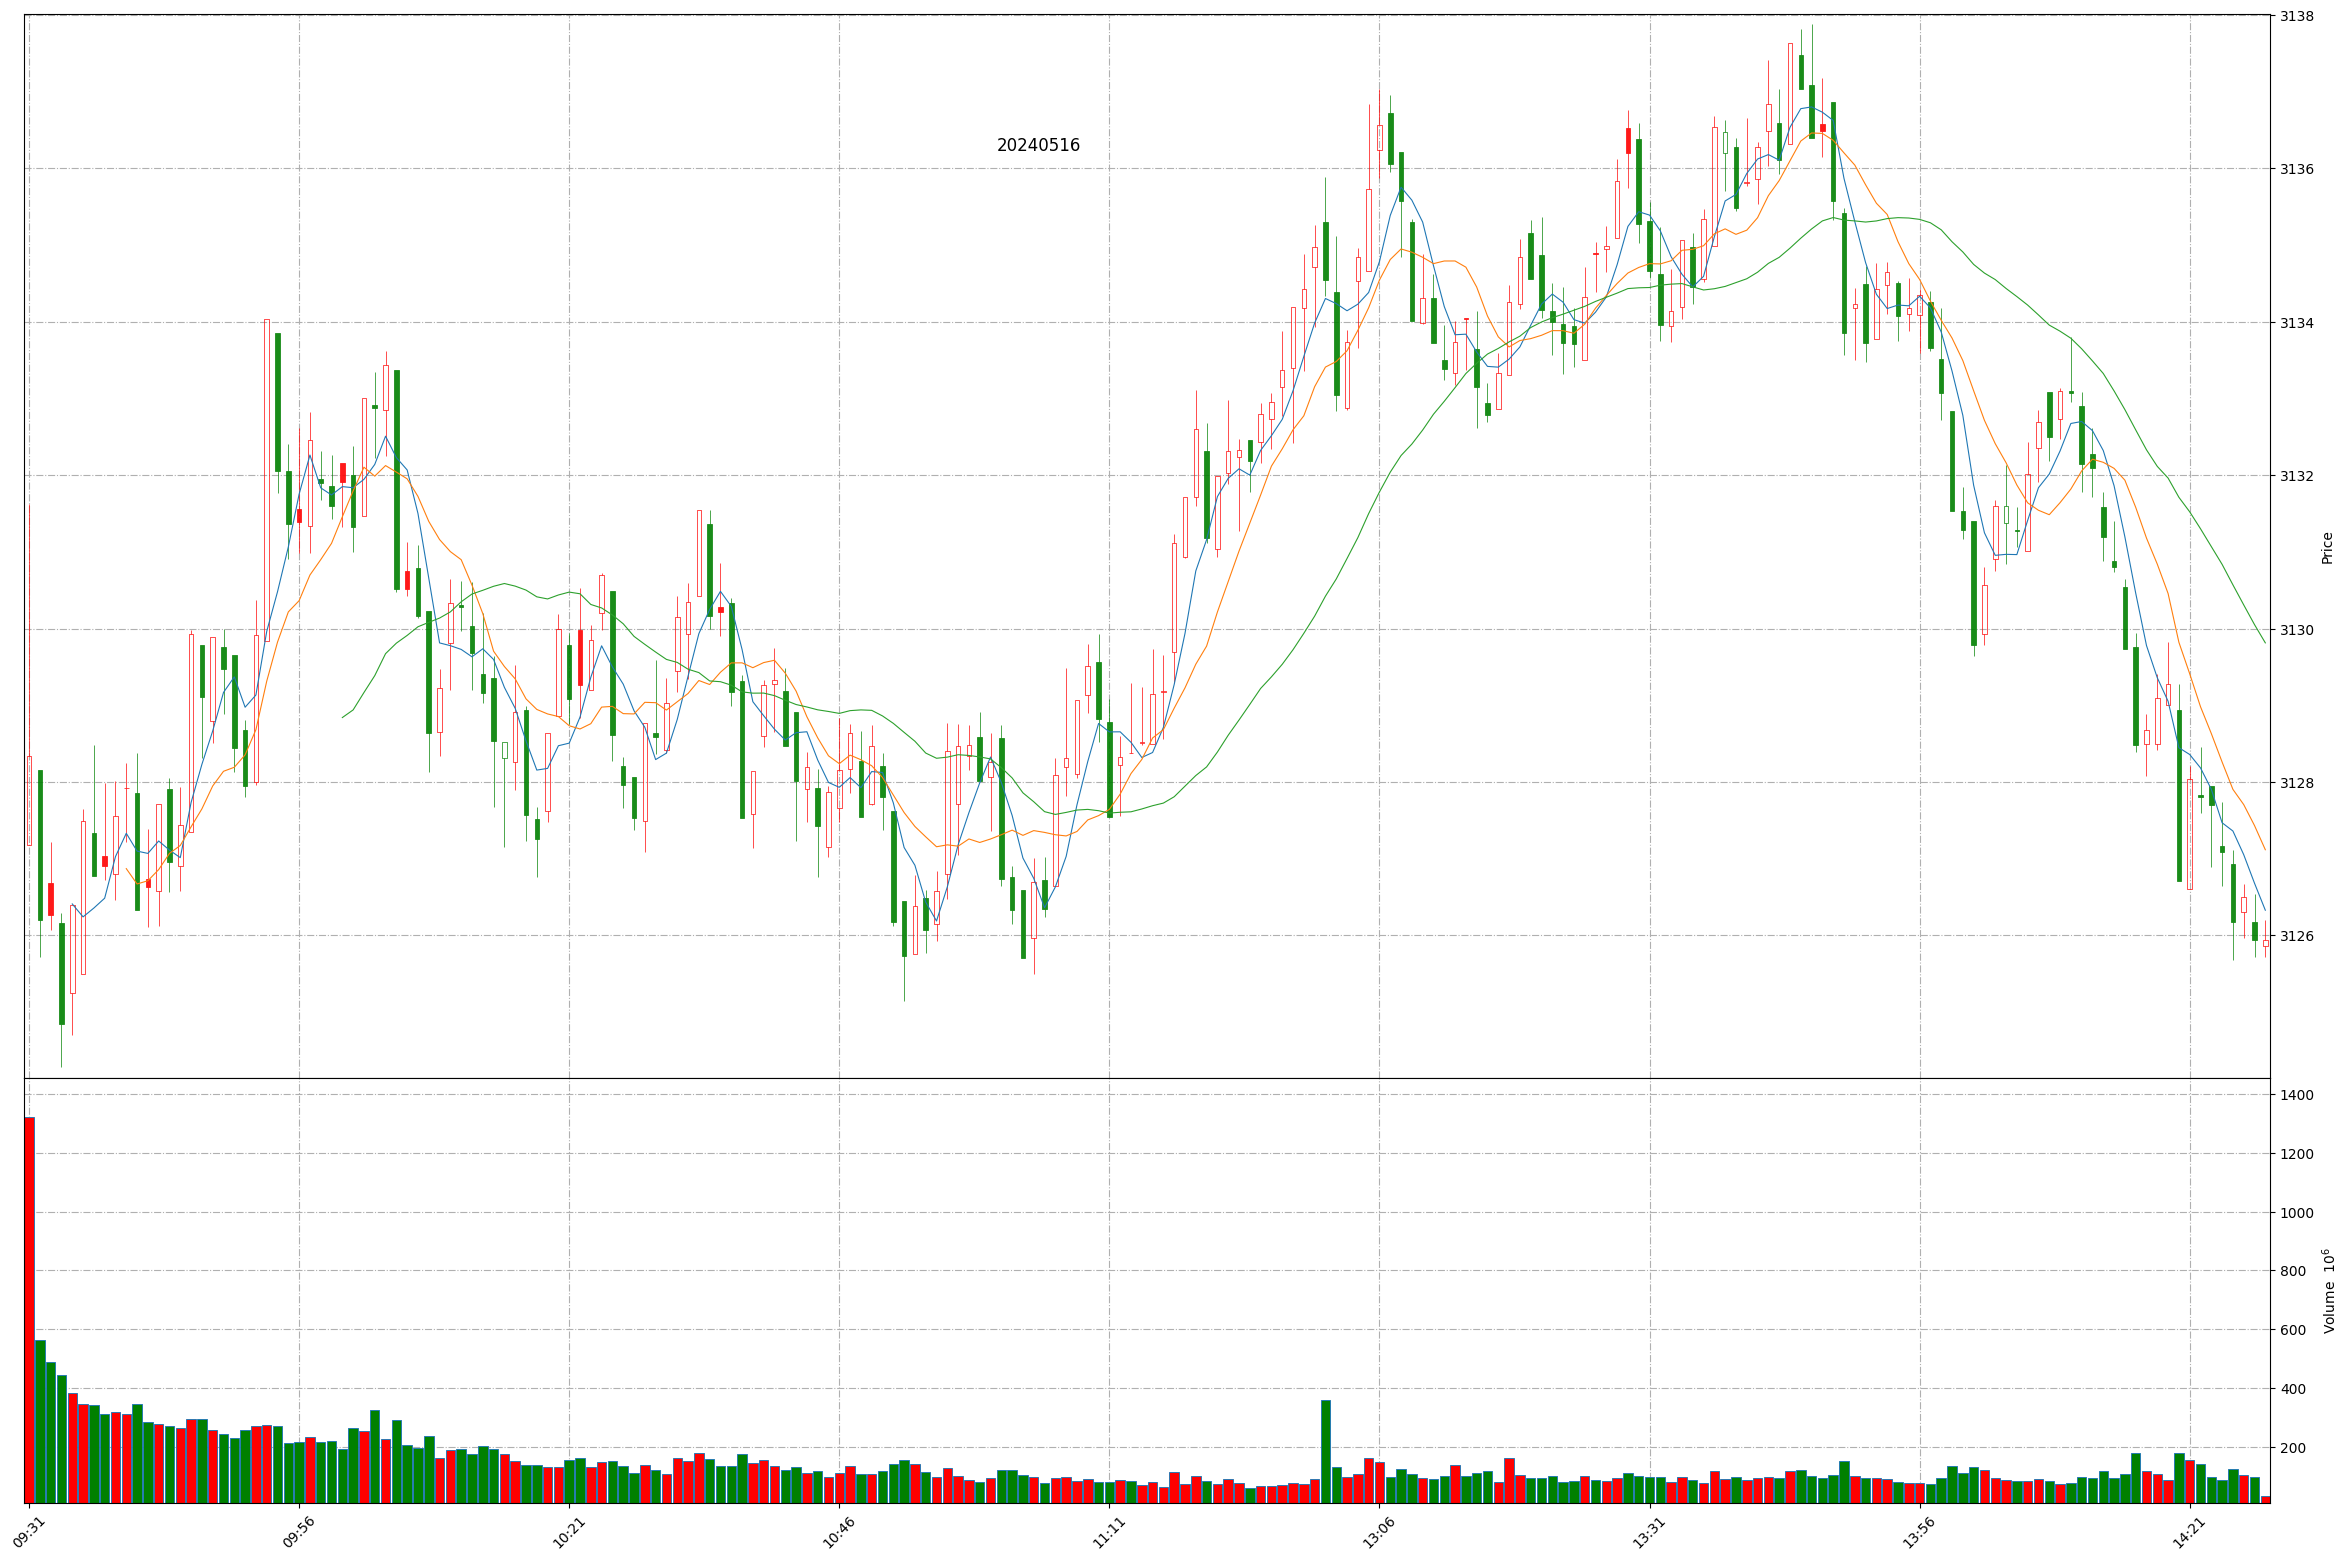
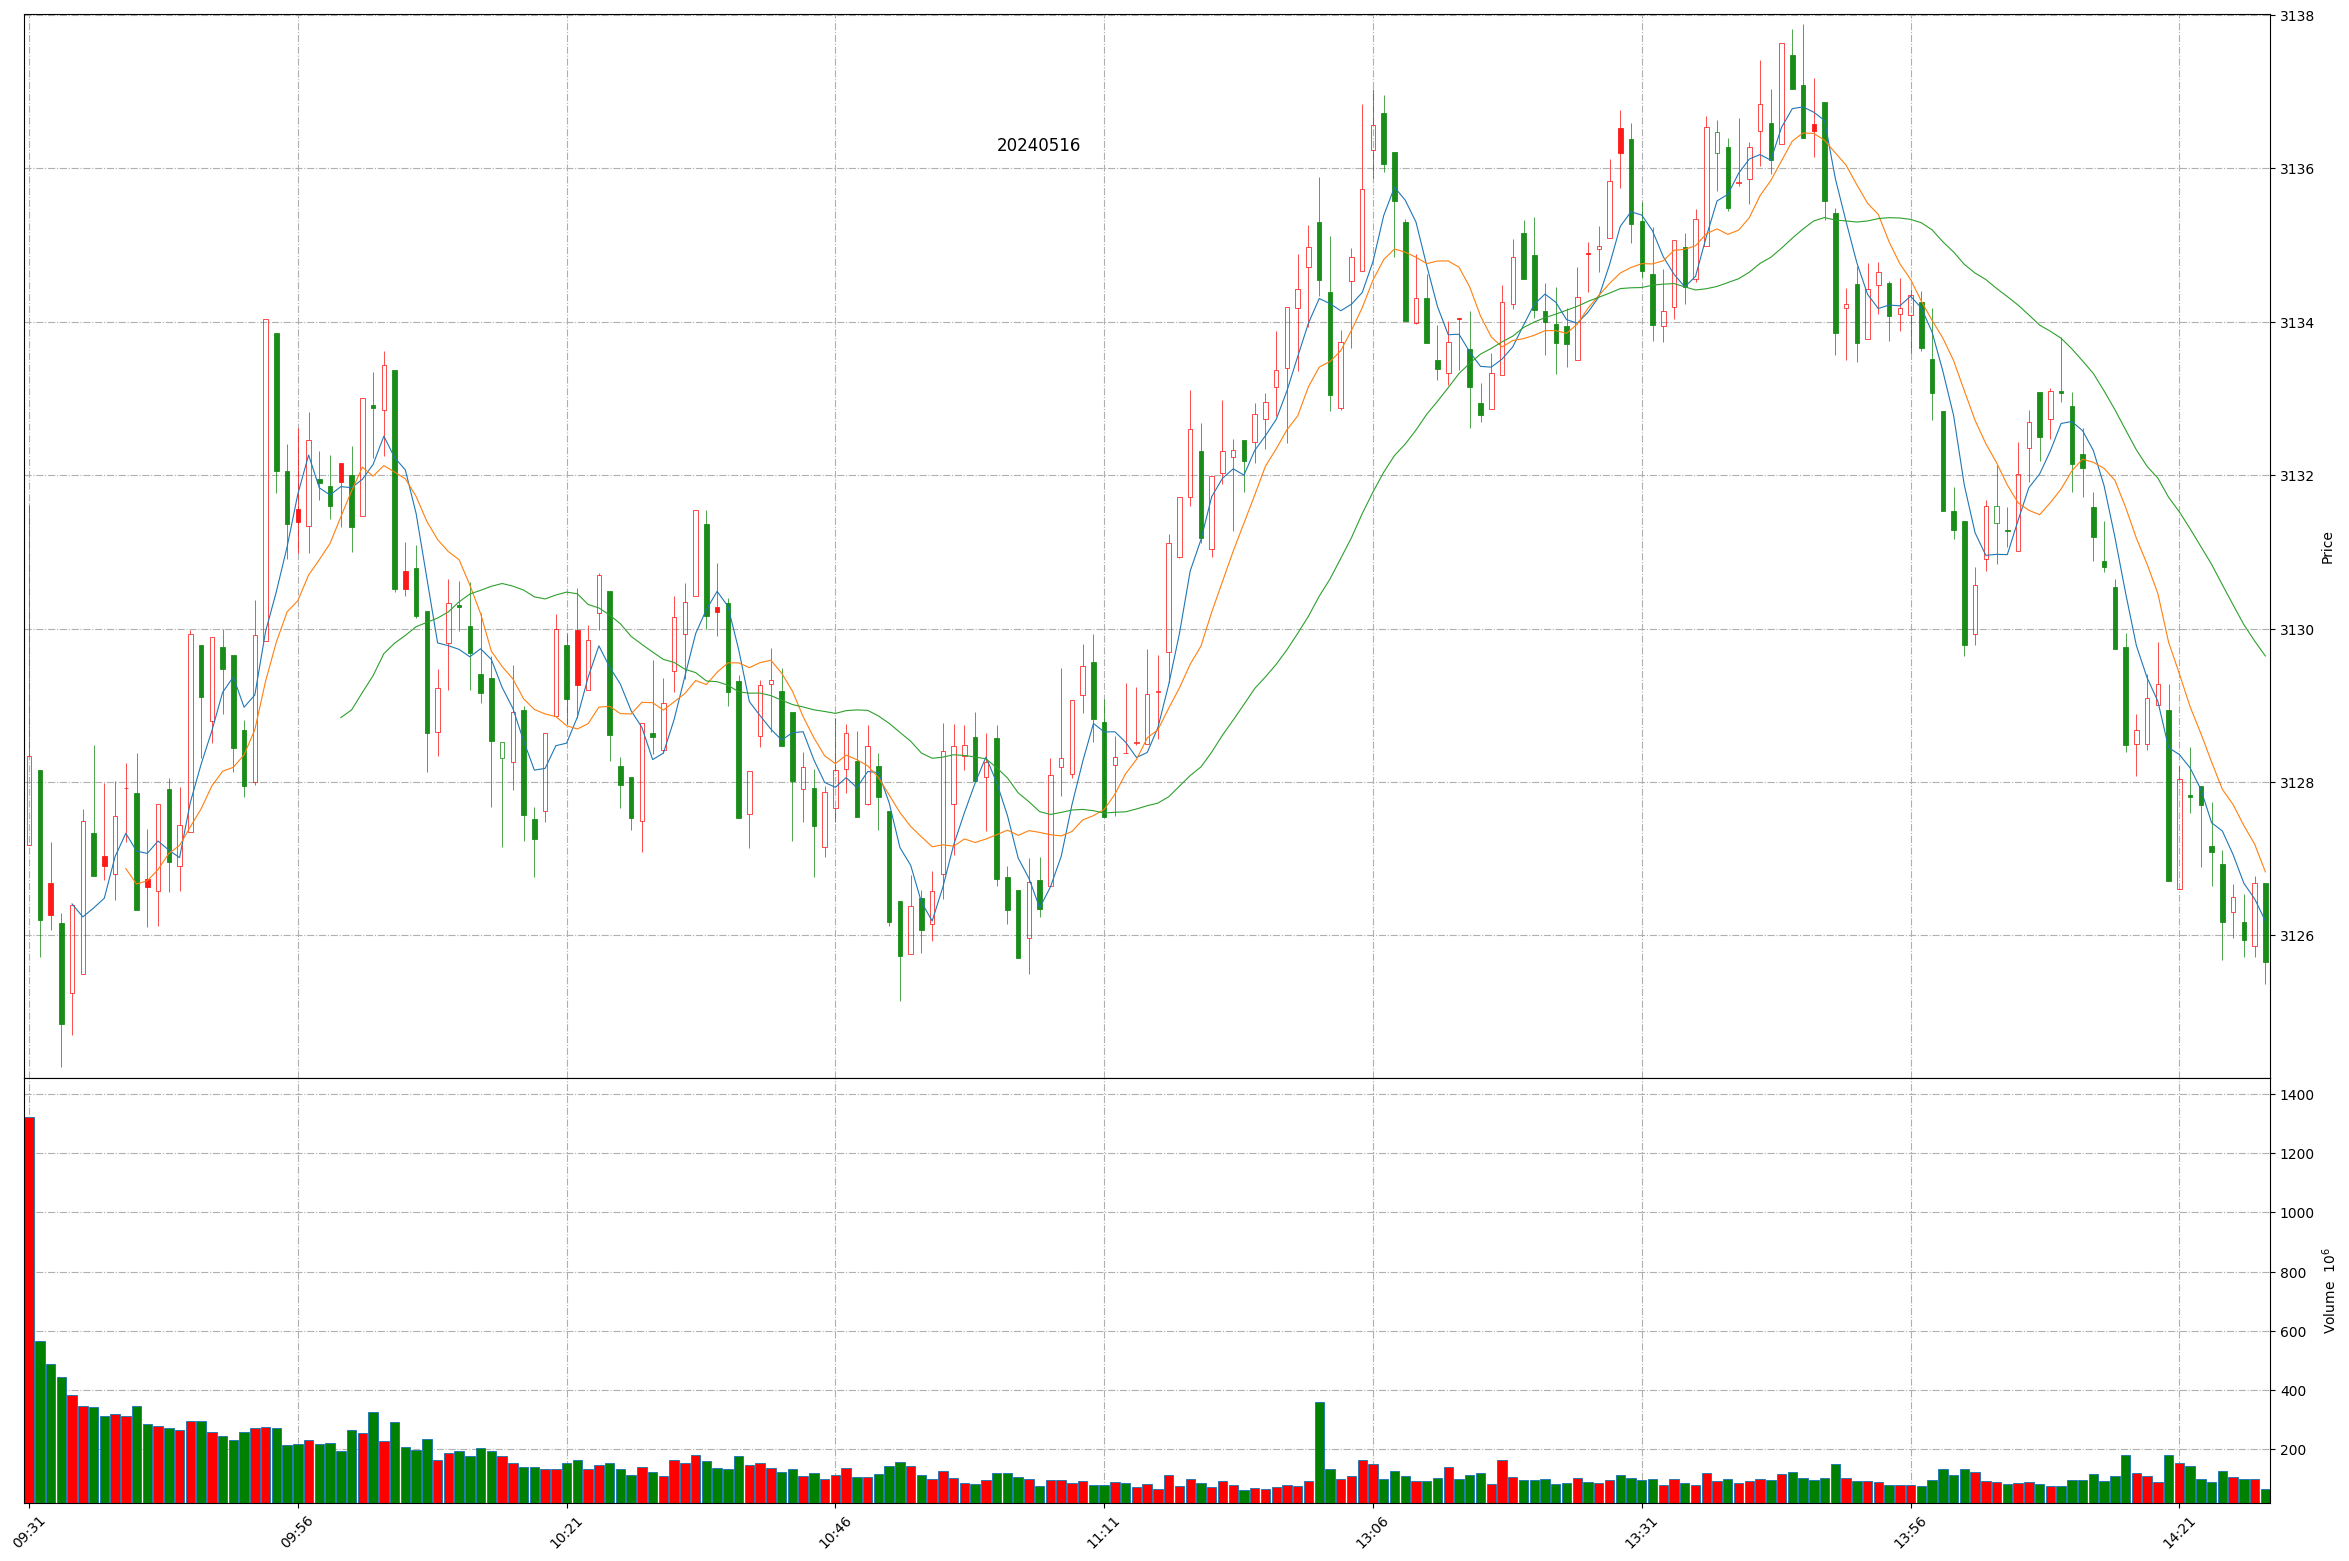
Github action update at 2024-05-16 14:29:01.

diff --git a/README.md b/README.md
@@ -1,11 +1,11 @@
 
 # Daily-A-share-market-quotes 每日 A 股指数（5min 更新）- 20240516
 
-### 上证指数 20240516 14:27
+### 上证指数 20240516 14:29
 ![](./fig/2024/5/20240516-sh000001.png)
 
-### 深证成指 20240516 14:27
+### 深证成指 20240516 14:29
 ![](./fig/2024/5/20240516-sz399001.png)
 
-### 北证50 20240516 14:27
+### 北证50 20240516 14:29
 ![](./fig/2024/5/20240516-bj899050.png)
